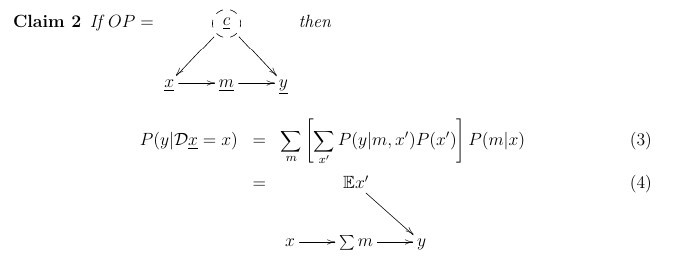
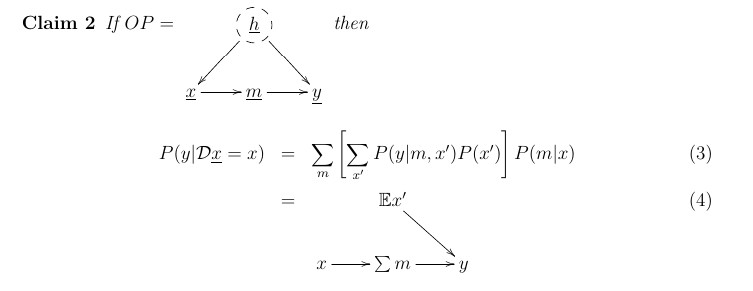
first commit

diff --git a/docs/not-do-calculus.tex b/docs/not-do-calculus.tex
@@ -39,7 +39,7 @@ generated  numerical proof.
 If $OP=$
 $
 \xymatrix{
-&*++[F-o]{\rvc}\ar[ld]\ar[rd]
+&*++[F-o]{\rvh}\ar[ld]\ar[rd]
 \\
 \rvx\ar[r]&\rvm\ar[r]&\rvy
 }$